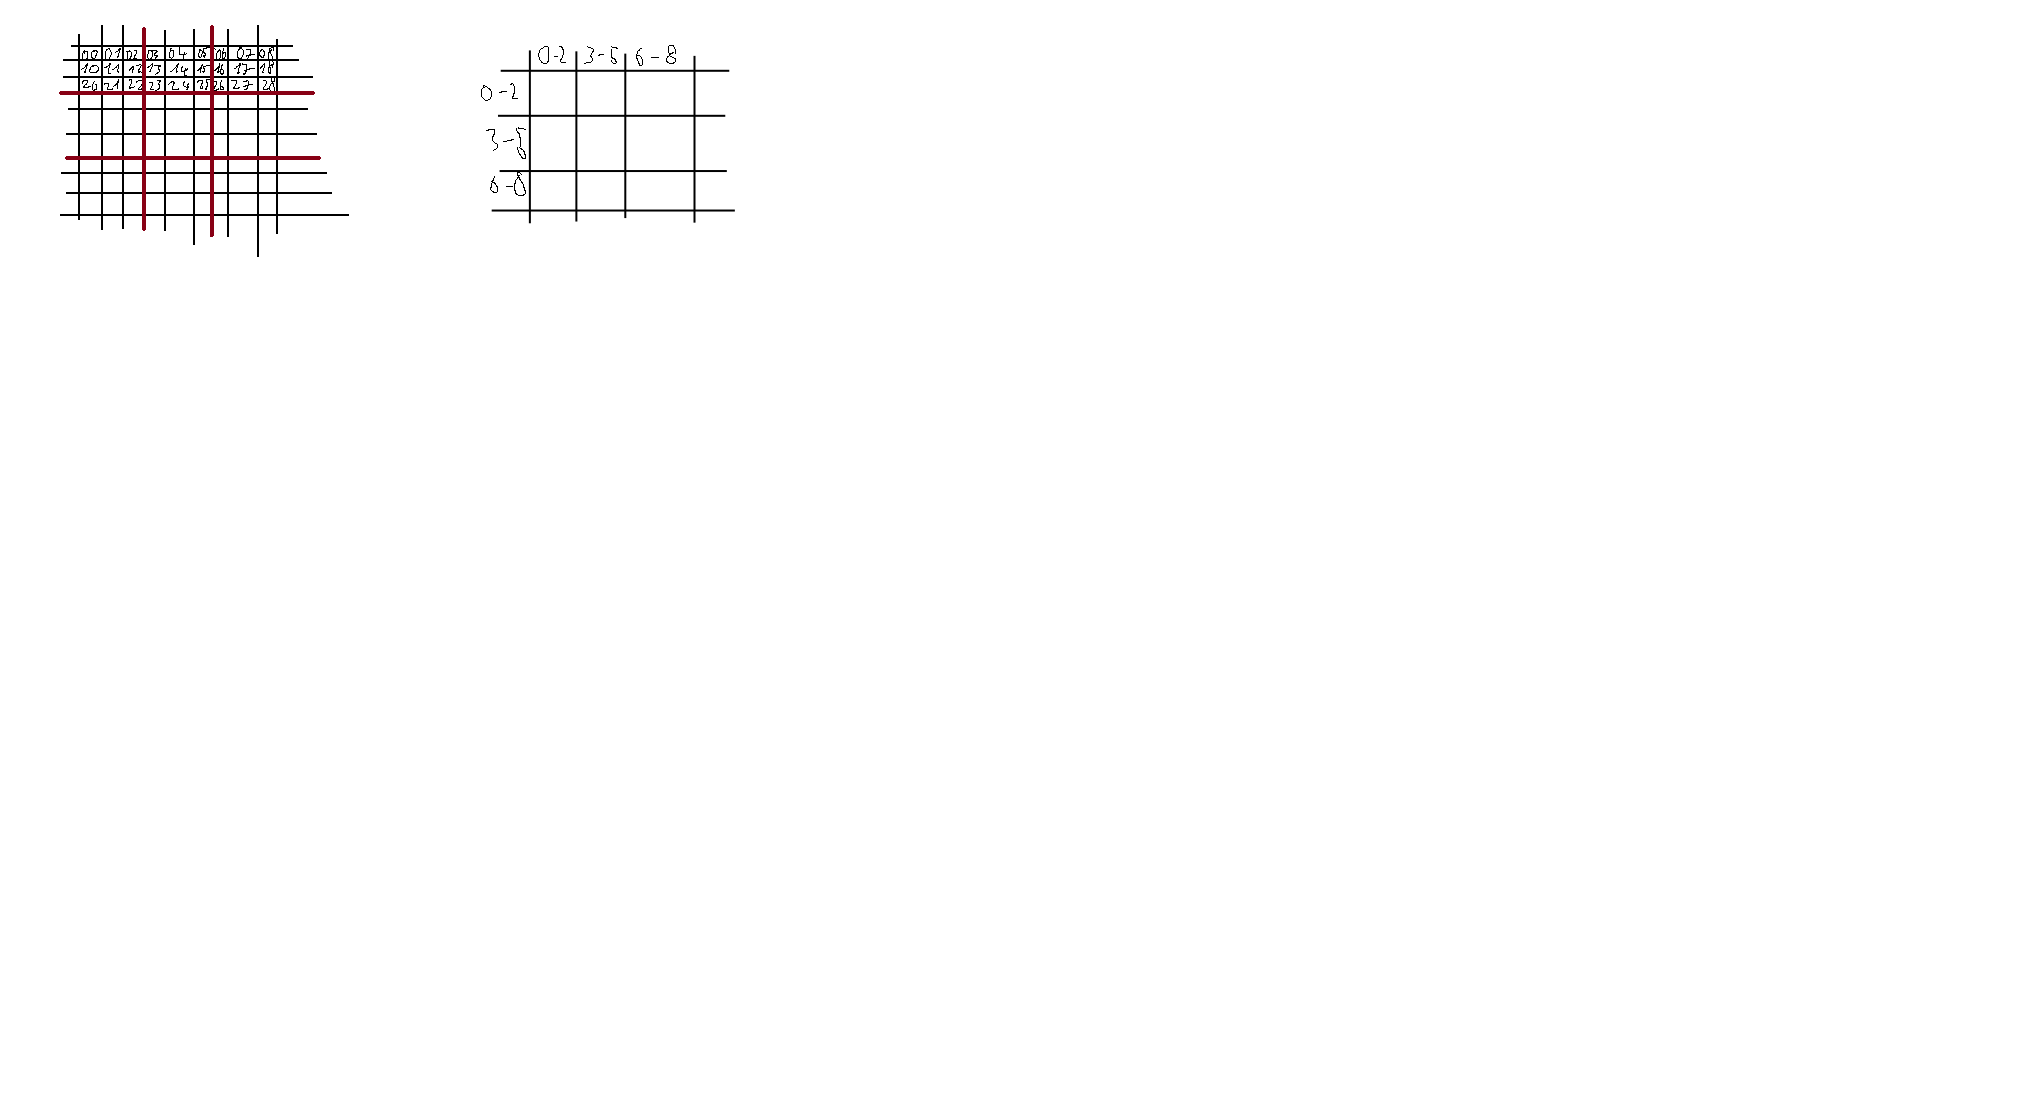
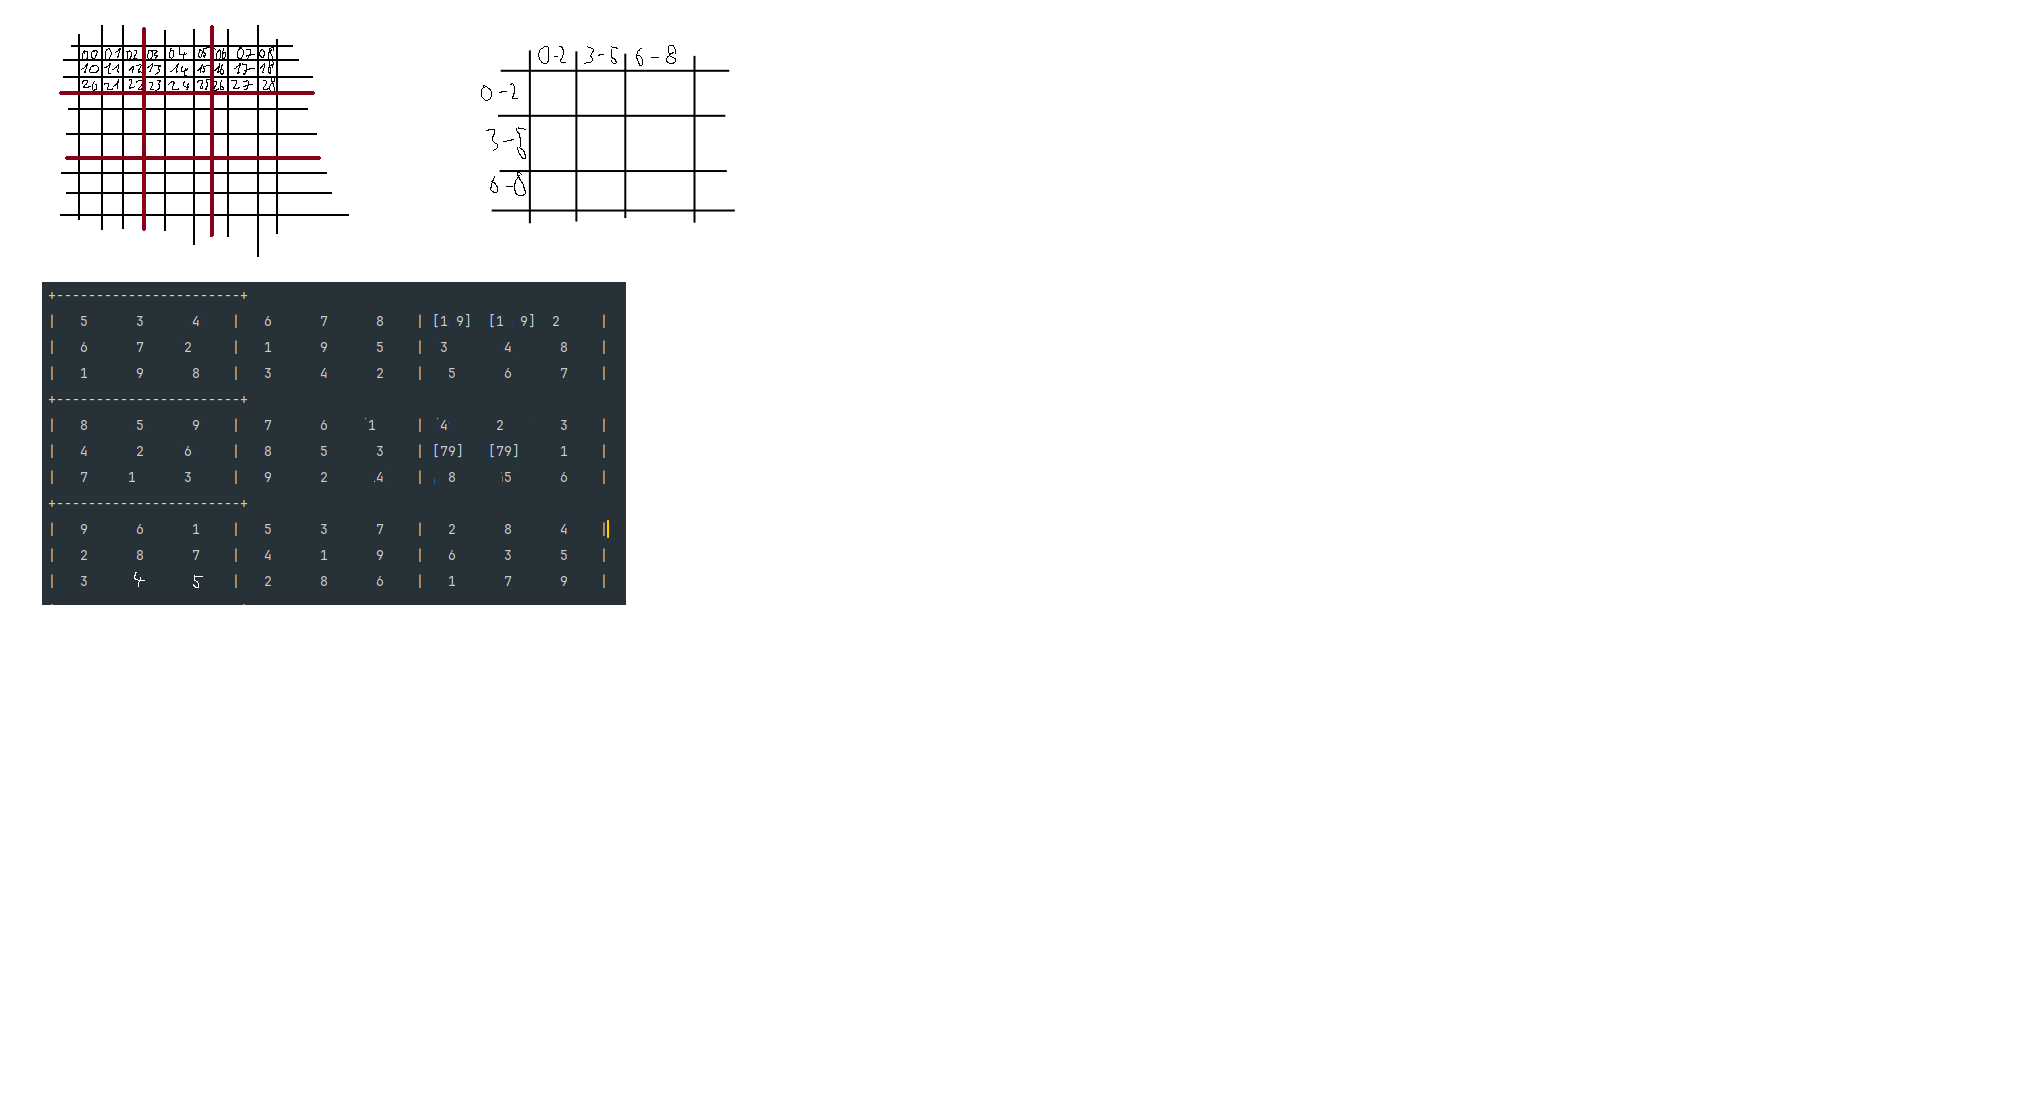
SudokuSolver day 5 FINISH

Changed region(s): [[0.0, 0.2479, 0.3103, 0.5579]]

diff --git a/Kata/Y2026/Q2/SudokuSolver.php b/Kata/Y2026/Q2/SudokuSolver.php
@@ -49,9 +49,9 @@ class SudokuSolver {
 	{
 		/*
 		/plan
-		1. Získat ke každému poli $row, $column, $square
-		2. z 0 udělat array všech možných co na daném místě mohou být (0 -> [1, 5, 6, 9])
-		3. Projíždět ten cyklus do nekonečka, jelikož autor říkal že nemusí být žádné tipování, takže v každém průběhu cyklu se něco určitě vyplní co umožní vyplnit další
+		1. Get $row, $column, $square for each cell
+		2. Convert 0 into an array of all possible values for that position (0 -> [1, 5, 6, 9])
+		3. Run the loop indefinitely — the author said no guessing is needed, so each pass will definitely fill in something that unlocks the next cell
 		*/
 
 		$changed = true;
@@ -66,17 +66,18 @@ class SudokuSolver {
 					[$column, $square] = $this->getColumnAndSquare($rowIndex, $columnIndex);
 
 					$onlyPossibleValues = $this->getPossibleValues($this->grid[$rowIndex], $column, $square);
-					$onlyPossibleValues = array_values($onlyPossibleValues);
 
 					if (count($onlyPossibleValues) === 1) {
-						$this->grid[$rowIndex][$columnIndex] = $onlyPossibleValues[0];
-					}else {
+						$this->grid[$rowIndex][$columnIndex] = array_values($onlyPossibleValues)[0];
+						$changed = true;
+					}elseif (count($onlyPossibleValues) === 0) {
+						return [0];
+					}
+					else {
 						$this->grid[$rowIndex][$columnIndex] = $onlyPossibleValues;
 					}
-					$changed = true;
 				}
 			}
-			$this->printSudoku($this->grid);
 		}
 
 		return $this->grid;
@@ -105,37 +106,12 @@ class SudokuSolver {
 	{
 		$allPossibleValues = [1, 2, 3, 4, 5, 6, 7, 8, 9];
 
-		return array_diff($allPossibleValues, $row, $column, $square);//TODO array to string
-	}
 
-
-
-
-
-	function printSudoku(array $board): void
-	{
-		foreach ($board as $r => $row) {
-
-			if ($r % 3 === 0) {
-				echo "+-----------------------+\n";
-			}
-
-			foreach ($row as $c => $cell) {
-
-				if ($c % 3 === 0) {
-					echo "| ";
-				}
-
-				if (is_array($cell)) {
-					echo str_pad('[' . implode('', $cell) . ']', 7, ' ');
-				} else {
-					echo '  ' . $cell . '    ';
-				}
-			}
-
-			echo "|\n";
-		}
-
-		echo "+-----------------------+\n";
+		return array_diff(
+			$allPossibleValues,
+			array_filter($row, 'is_int'),
+			array_filter($column, 'is_int'),
+			array_filter($square, 'is_int')
+		);
 	}
 }